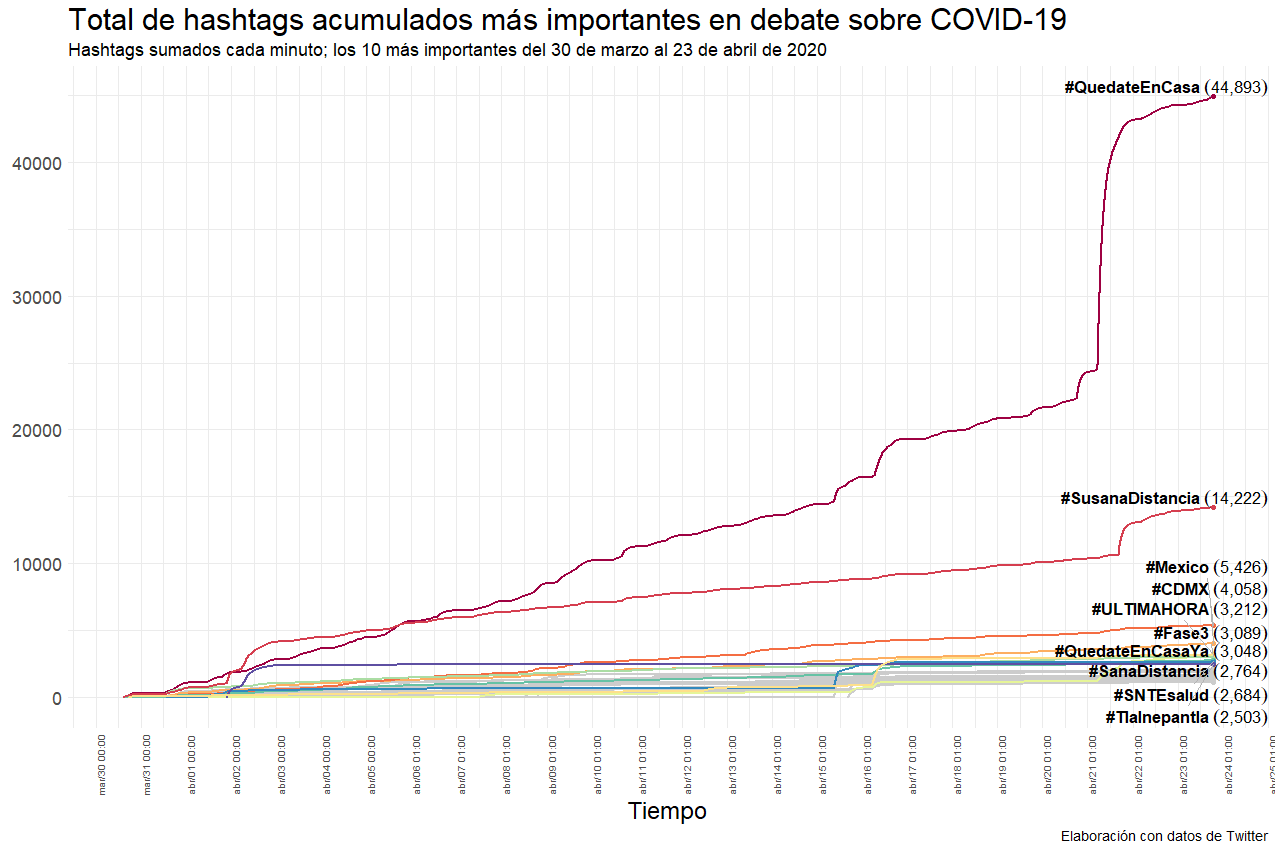
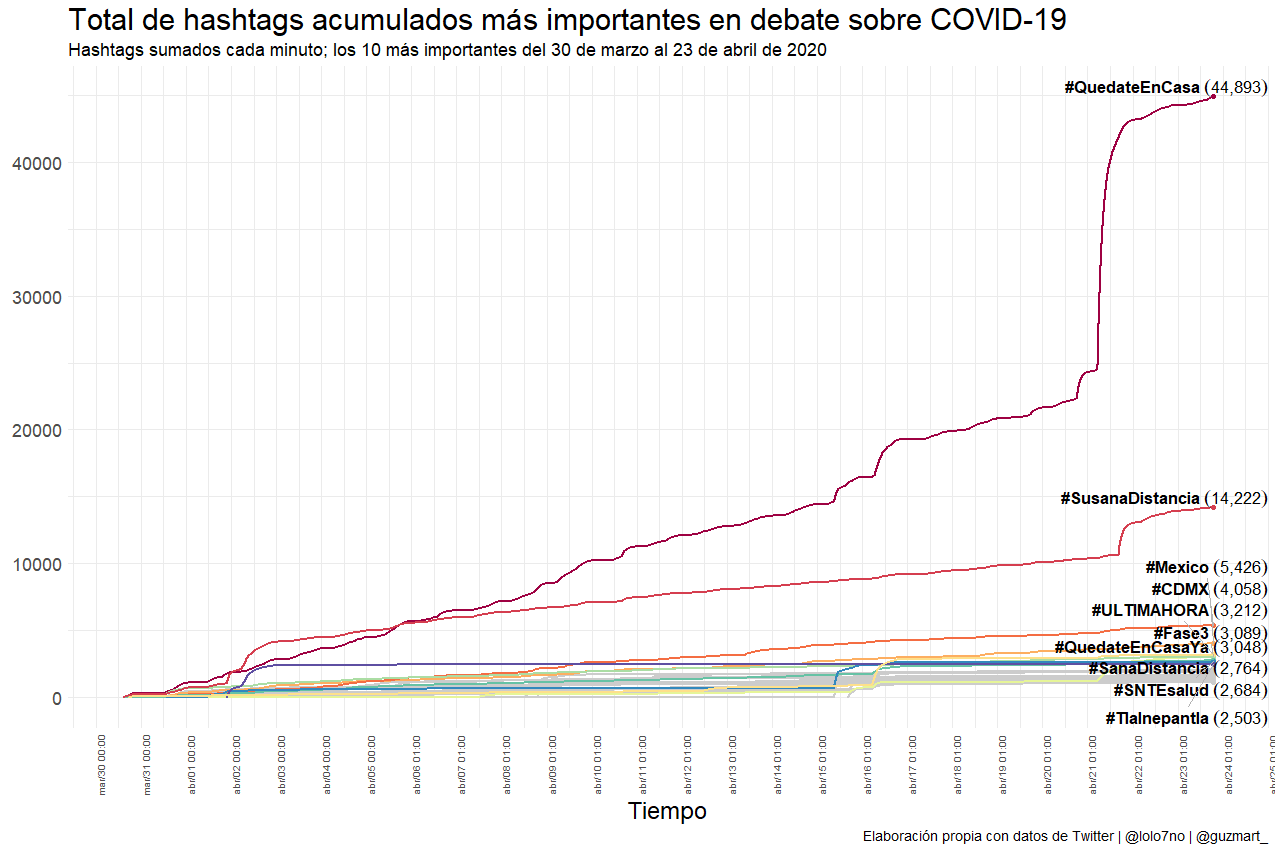
Readme
y caption nueva

Changed region(s): [[0.8259, 0.7035, 1.0, 0.8565], [0.6729, 0.9788, 1.0, 1.0]]

diff --git a/README.md b/README.md
@@ -1,2 +1,3 @@
-# Nexos_COVID_Twitter
-Datos abiertos para artículo de NEXOS
+# Twitter en tiempos del COVID-19
+
+En este repo se concentra el código, las gráficas y los datos que usamos Katia Guzmán y Lorenzo León para el artículo en Nexos en el que analizamos los tweets relacionados con el COVID-19 en México desde el 30 de marzo.
